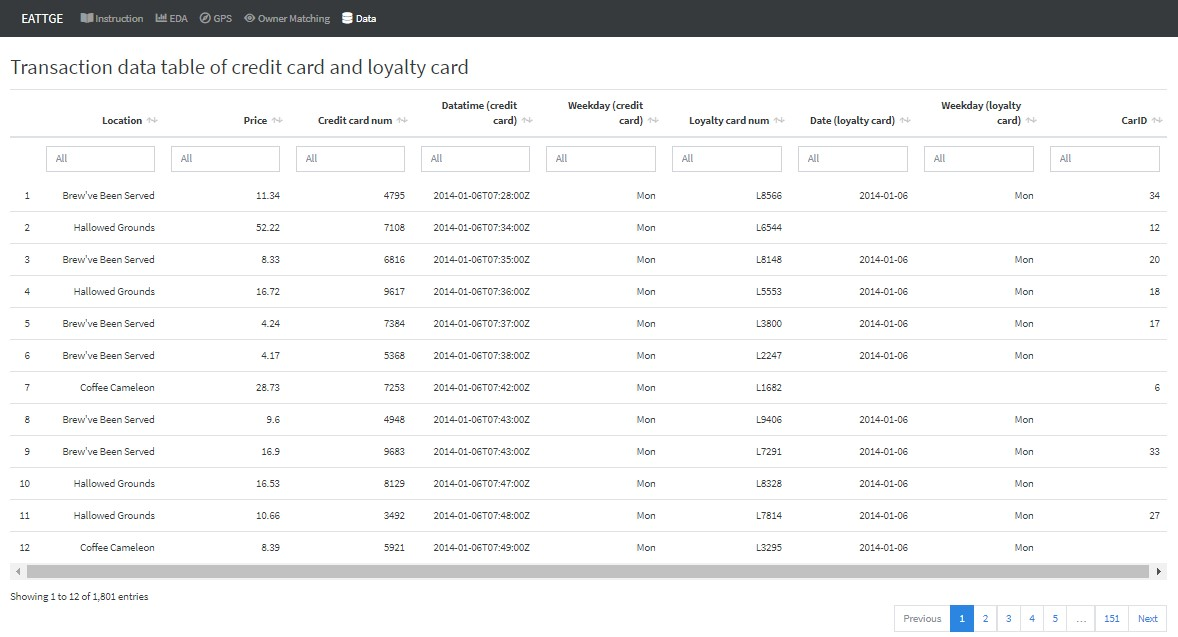
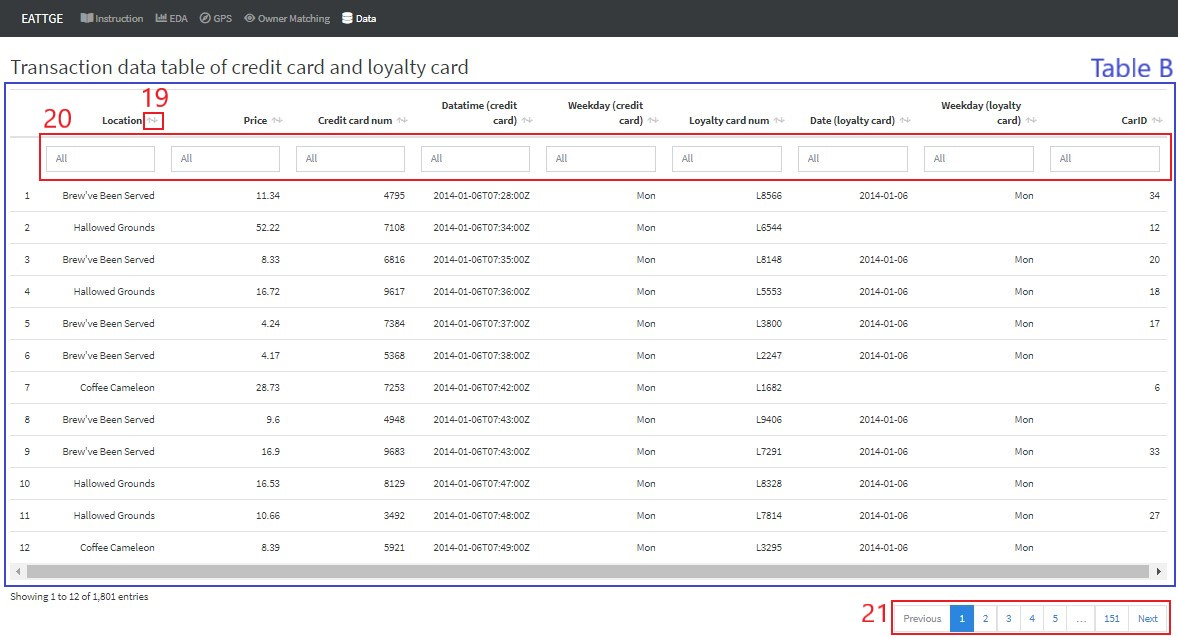
DF ShinyApp + User Guide

Changed region(s): [[0.0, 0.0895, 1.0, 0.2983], [0.0, 0.8948, 1.0, 1.0]]

diff --git a/_posts/2021-08-04-user-guide/user-guide.html b/_posts/2021-08-04-user-guide/user-guide.html
@@ -116,7 +116,7 @@ code span.wa { color: #5e5e5e; font-style: italic; } /* Warning */
   <!--/radix_placeholder_rmarkdown_metadata-->
   
   <script type="text/json" id="radix-resource-manifest">
-  {"type":"character","attributes":{},"value":["img/df_t0instr.jpg","img/df_t1.1eda.jpg","img/df_t2.2hm.jpg","img/df_t3.1om.jpg","img/df_t4.1dt.jpg","img/t1.2-1.jpg","img/t1.2-2.jpg","img/t1.2-3.jpg","img/t1.3_zoom.jpg","img/t2-2.jpg","img/t2.1-1.jpg","img/t2.1-2.jpg","img/t2.1-3.jpg","user-guide_files/anchor-4.2.2/anchor.min.js","user-guide_files/bowser-1.9.3/bowser.min.js","user-guide_files/distill-2.2.21/template.v2.js","user-guide_files/header-attrs-2.9/header-attrs.js","user-guide_files/jquery-1.11.3/jquery.min.js","user-guide_files/popper-2.6.0/popper.min.js","user-guide_files/tippy-6.2.7/tippy-bundle.umd.min.js","user-guide_files/tippy-6.2.7/tippy-light-border.css","user-guide_files/tippy-6.2.7/tippy.css","user-guide_files/tippy-6.2.7/tippy.umd.min.js","user-guide_files/webcomponents-2.0.0/webcomponents.js"]}
+  {"type":"character","attributes":{},"value":["img/df_t0instr.jpg","img/df_t1.1eda.jpg","img/df_t2.2hm.jpg","img/df_t3.1om.jpg","img/df_t4.1dt.jpg","img/t1.2-1.jpg","img/t1.2-2.jpg","img/t1.2-3.jpg","img/t1.3_zoom.jpg","img/t2-2.jpg","img/t2.1-1.jpg","img/t2.1-2.jpg","img/t2.1-3.jpg","img/t3.2-1.jpg","img/t3.2-2.jpg","img/t3.3.jpg","user-guide_files/anchor-4.2.2/anchor.min.js","user-guide_files/bowser-1.9.3/bowser.min.js","user-guide_files/distill-2.2.21/template.v2.js","user-guide_files/header-attrs-2.9/header-attrs.js","user-guide_files/jquery-1.11.3/jquery.min.js","user-guide_files/popper-2.6.0/popper.min.js","user-guide_files/tippy-6.2.7/tippy-bundle.umd.min.js","user-guide_files/tippy-6.2.7/tippy-light-border.css","user-guide_files/tippy-6.2.7/tippy.css","user-guide_files/tippy-6.2.7/tippy.umd.min.js","user-guide_files/webcomponents-2.0.0/webcomponents.js"]}
   </script>
   <!--radix_placeholder_navigation_in_header-->
   <!--/radix_placeholder_navigation_in_header-->
@@ -1502,22 +1502,23 @@ code span.wa { color: #5e5e5e; font-style: italic; } /* Warning */
 <p style="text-align:center;">
 <em>Fig.2 The panel for EDA</em>
 </p>
-<p>[1] Switch the heatmap to show credit card or loyalty card in chart A. <br> [2] Select one or multiple credit/loyalty card number to transactions of specific cards for chart A, B and C. <br> [3] Select all weekday/weekend or particular dates to filter transactions in specific days for chart A, B, C</p>
+<p>[1] Switch the heatmap to show credit card or loyalty card in chart A. <br> [2] Select one or multiple credit/loyalty card number to transactions of specific cards for chart A, B and C. <br> [3] Select all weekday/weekend or particular dates to filter transactions in specific days for chart A, B, C.</p>
 <p style="text-align:center;">
 <img src="img/t1.2-1.jpg" style="width:45.0%" /> <img src="img/t1.2-2.jpg" style="width:45.0%" /> <img src="img/t1.2-3.jpg" style="width:100.0%" /> <br> <em>Fig.3 Hover over on charts to see the tooltip</em>
 </p>
-<p>[4] Hover cursor over plot area to see the location, date/hour and transaction count for heatmap, see the maximum, minimum, mean, median and quartile transaction price for boxplot.</p>
+<p>[4] Hover cursor over plot area to see the tooltip with location, date/hour and transaction count for chart A/chart B, see the tooltip with maximum, minimum, mean, median and quartile transaction price for chart C.</p>
 <p style="text-align:center;">
 <img src="img/t1.3_zoom.jpg" style="width:50.0%" /> <br> <em>Fig.4 Zoom in and out on boxplot</em>
 </p>
-<p>[5] Drag and drop on plot area to zoom in on the boxplot and see details clearly of boxes. Double-click on plot area to restore the default scale of the plotting.</p>
+<p>[5] Drag and drop on plot area to zoom in on chart C and see details clearly of boxes. Double-click on plot area to restore the default scale of the plotting.</p>
 <h1 id="gps">3. GPS</h1>
 <p>This panel is designed to visualize the GPS tracking data. Two sub-tabs constitute this panel.</p>
+<p><strong>In the first sub-tab:</strong></p>
 <img src="img/t2.1-1.jpg" style="width:100.0%" /> <br>
 <p style="text-align:center;">
 <em>Fig.5 The first sub-tab of the panel for GPS</em>
 </p>
-<p>In the first sub-tab: [6] Select particular car ID and date(s) to show GPS movement path for selected car in selected date(s) in chart D and E. <br> [7] The table shows which timeslot each color represents in chart E, and the layer names of the respective timeslots. <br> [8] This buttons are used to zoom in our zoom out the map for displaying more details.</p>
+<p>[6] Select particular car ID and date(s) to show GPS movement path for selected car in selected date(s) in chart D and E. <br> [7] The table shows which timeslot each color represents in chart E, and the layer names of the respective timeslots. <br> [8] This buttons are used to zoom in our zoom out the map for displaying more details.</p>
 <p style="text-align:center;">
 <img src="img/t2.1-2.jpg" style="width:60.0%" /> <br> <em>Fig.6 Legend and tooltip of chart D</em>
 </p>
@@ -1527,13 +1528,40 @@ code span.wa { color: #5e5e5e; font-style: italic; } /* Warning */
 </p>
 <p>[11] Hover the cursor over the layer logo on the upper-left corner to see the layers of Chart E. Check or uncheck particular layers by clicking to see the movement of specific timeslots in selected day.</p>
 <p><em>*Tips: In order to better analysis the movement path, highly recommend to select one car ID to overview all movement lines, then further select one date to observe actions in different timeslots of a day.</em></p>
+<p><strong>In the second tab:</strong></p>
 <img src="img/df_t2.2hm.jpg" style="width:100.0%" /> <br>
 <p style="text-align:center;">
 <em>Fig.8 The second sub-tab of the panel for GPS</em>
 </p>
-<p>In the second tab: [12]</p>
+<p>[12] Check or uncheck weekday or weekend to filter GPS track data in weekday or weekend only for chart F.</p>
+<p style="text-align:center;">
+<img src="img/t2-2.jpg" style="width:50.0%" /> <br> <em>Fig.9 Tooltip in chart F</em>
+</p>
+<p>[13] Hover cursor over plot area of chart F to see the tooltip with car ID, hour and record count of each car in one hour.</p>
+<p><em>*Note: As the Memory limitation of free Shiny App server, after deploying, the Shiny APP can’t afford displaying GPS movement lines for all cars. Thus we filtered GPS tracking data and retained several typical car IDs data to generate the key movement lines for further exploration and analysis.</em></p>
 <h1 id="owner-matching">4. Owner Matching</h1>
+<p>This panel is used to show the relationship between particular car owner and credit/loyalty card holder.</p>
+<img src="img/df_t3.1om.jpg" style="width:100.0%" /> <br>
+<p style="text-align:center;">
+<em>Fig.10 The panel for Owner Matching</em>
+</p>
+<p>[14] Click on the arrow icons next to column title to sort the table A by corresponding column; click the input boxes below the column title, type in searching criteria or select target option to filter the data table. Regular expression can be applied in searching criteria. <br> [15] Click the row in table A to see specific heatmap (chart G) and line chart (chart H) for selected employee(s) on the right side. <br> [16] Switch the heatmap to show credit card or loyalty card in chart H.</p>
+<p><em>*Note: As stated in section 3, only GPS tracking data of the retained car IDs can be used to build Chart G.</em></p>
+<p style="text-align:center;">
+<img src="img/t3.2-1.jpg" style="width:80.0%" /> <img src="img/t3.2-2.jpg" style="width:80.0%" /> <br> <em>Fig.11 Hover over on charts to see the tooltip </em>
+</p>
+<p>[17] Hover cursor over plot area of chart G to see the tooltip with hour, date and record count of selected car in one hour of a day; hover over point on chart H to see the tooltip with the transaction datatime and price in specific location.</p>
+<p style="text-align:center;">
+<img src="img/t3.3.jpg" style="width:80.0%" /> <br> <em>Fig.12 Hover over on charts to see the tooltip </em>
+</p>
+<p>[18] Drag and drop on plot area to zoom in on chart H and see details clearly of points. Double-click on plot area to restore the default scale of the plotting.</p>
 <h1 id="data">5. Data</h1>
+<p>This panel is used to retieve the details of individual transaction record.</p>
+<img src="img/df_t4.1dt.jpg" style="width:100.0%" /> <br>
+<p style="text-align:center;">
+<em>Fig.13 The panel for Owner Matching</em>
+</p>
+<p>[19] Click on the arrow icons next to column title to sort the table B by corresponding column. <br> [20] Click the input boxes below the column title, type in searching criteria or select target option to filter table B. Regular expression can be applied in searching criteria. <br> [21] Click the “Previous” button to shift to the previous page of table B; click “Next” button to shift to the next page; click the page number to jump into the selected page.</p>
 <div class="sourceCode" id="cb1"><pre class="sourceCode r distill-force-highlighting-css"><code class="sourceCode r"></code></pre></div>
 <!--radix_placeholder_article_footer-->
 <!--/radix_placeholder_article_footer-->

diff --git a/_site/posts/2021-08-04-user-guide/index.html b/_site/posts/2021-08-04-user-guide/index.html
@@ -117,7 +117,7 @@ code span.wa { color: #5e5e5e; font-style: italic; } /* Warning */
 <!--/radix_placeholder_rmarkdown_metadata-->
   
   <script type="text/json" id="radix-resource-manifest">
-  {"type":"character","attributes":{},"value":["img/df_t0instr.jpg","img/df_t1.1eda.jpg","img/df_t2.2hm.jpg","img/df_t3.1om.jpg","img/df_t4.1dt.jpg","img/t1.2-1.jpg","img/t1.2-2.jpg","img/t1.2-3.jpg","img/t1.3_zoom.jpg","img/t2-2.jpg","img/t2.1-1.jpg","img/t2.1-2.jpg","img/t2.1-3.jpg","user-guide_files/anchor-4.2.2/anchor.min.js","user-guide_files/bowser-1.9.3/bowser.min.js","user-guide_files/distill-2.2.21/template.v2.js","user-guide_files/header-attrs-2.9/header-attrs.js","user-guide_files/jquery-1.11.3/jquery.min.js","user-guide_files/popper-2.6.0/popper.min.js","user-guide_files/tippy-6.2.7/tippy-bundle.umd.min.js","user-guide_files/tippy-6.2.7/tippy-light-border.css","user-guide_files/tippy-6.2.7/tippy.css","user-guide_files/tippy-6.2.7/tippy.umd.min.js","user-guide_files/webcomponents-2.0.0/webcomponents.js"]}
+  {"type":"character","attributes":{},"value":["img/df_t0instr.jpg","img/df_t1.1eda.jpg","img/df_t2.2hm.jpg","img/df_t3.1om.jpg","img/df_t4.1dt.jpg","img/t1.2-1.jpg","img/t1.2-2.jpg","img/t1.2-3.jpg","img/t1.3_zoom.jpg","img/t2-2.jpg","img/t2.1-1.jpg","img/t2.1-2.jpg","img/t2.1-3.jpg","img/t3.2-1.jpg","img/t3.2-2.jpg","img/t3.3.jpg","user-guide_files/anchor-4.2.2/anchor.min.js","user-guide_files/bowser-1.9.3/bowser.min.js","user-guide_files/distill-2.2.21/template.v2.js","user-guide_files/header-attrs-2.9/header-attrs.js","user-guide_files/jquery-1.11.3/jquery.min.js","user-guide_files/popper-2.6.0/popper.min.js","user-guide_files/tippy-6.2.7/tippy-bundle.umd.min.js","user-guide_files/tippy-6.2.7/tippy-light-border.css","user-guide_files/tippy-6.2.7/tippy.css","user-guide_files/tippy-6.2.7/tippy.umd.min.js","user-guide_files/webcomponents-2.0.0/webcomponents.js"]}
   </script>
   <!--radix_placeholder_navigation_in_header-->
 <meta name="distill:offset" content="../.."/>
@@ -2126,22 +2126,23 @@ document.addEventListener('DOMContentLoaded', function() {
 <p style="text-align:center;">
 <em>Fig.2 The panel for EDA</em>
 </p>
-<p>[1] Switch the heatmap to show credit card or loyalty card in chart A. <br> [2] Select one or multiple credit/loyalty card number to transactions of specific cards for chart A, B and C. <br> [3] Select all weekday/weekend or particular dates to filter transactions in specific days for chart A, B, C</p>
+<p>[1] Switch the heatmap to show credit card or loyalty card in chart A. <br> [2] Select one or multiple credit/loyalty card number to transactions of specific cards for chart A, B and C. <br> [3] Select all weekday/weekend or particular dates to filter transactions in specific days for chart A, B, C.</p>
 <p style="text-align:center;">
 <img src="img/t1.2-1.jpg" style="width:45.0%" /> <img src="img/t1.2-2.jpg" style="width:45.0%" /> <img src="img/t1.2-3.jpg" style="width:100.0%" /> <br> <em>Fig.3 Hover over on charts to see the tooltip</em>
 </p>
-<p>[4] Hover cursor over plot area to see the location, date/hour and transaction count for heatmap, see the maximum, minimum, mean, median and quartile transaction price for boxplot.</p>
+<p>[4] Hover cursor over plot area to see the tooltip with location, date/hour and transaction count for chart A/chart B, see the tooltip with maximum, minimum, mean, median and quartile transaction price for chart C.</p>
 <p style="text-align:center;">
 <img src="img/t1.3_zoom.jpg" style="width:50.0%" /> <br> <em>Fig.4 Zoom in and out on boxplot</em>
 </p>
-<p>[5] Drag and drop on plot area to zoom in on the boxplot and see details clearly of boxes. Double-click on plot area to restore the default scale of the plotting.</p>
+<p>[5] Drag and drop on plot area to zoom in on chart C and see details clearly of boxes. Double-click on plot area to restore the default scale of the plotting.</p>
 <h1 id="gps">3. GPS</h1>
 <p>This panel is designed to visualize the GPS tracking data. Two sub-tabs constitute this panel.</p>
+<p><strong>In the first sub-tab:</strong></p>
 <img src="img/t2.1-1.jpg" style="width:100.0%" /> <br>
 <p style="text-align:center;">
 <em>Fig.5 The first sub-tab of the panel for GPS</em>
 </p>
-<p>In the first sub-tab: [6] Select particular car ID and date(s) to show GPS movement path for selected car in selected date(s) in chart D and E. <br> [7] The table shows which timeslot each color represents in chart E, and the layer names of the respective timeslots. <br> [8] This buttons are used to zoom in our zoom out the map for displaying more details.</p>
+<p>[6] Select particular car ID and date(s) to show GPS movement path for selected car in selected date(s) in chart D and E. <br> [7] The table shows which timeslot each color represents in chart E, and the layer names of the respective timeslots. <br> [8] This buttons are used to zoom in our zoom out the map for displaying more details.</p>
 <p style="text-align:center;">
 <img src="img/t2.1-2.jpg" style="width:60.0%" /> <br> <em>Fig.6 Legend and tooltip of chart D</em>
 </p>
@@ -2151,13 +2152,40 @@ document.addEventListener('DOMContentLoaded', function() {
 </p>
 <p>[11] Hover the cursor over the layer logo on the upper-left corner to see the layers of Chart E. Check or uncheck particular layers by clicking to see the movement of specific timeslots in selected day.</p>
 <p><em>*Tips: In order to better analysis the movement path, highly recommend to select one car ID to overview all movement lines, then further select one date to observe actions in different timeslots of a day.</em></p>
+<p><strong>In the second tab:</strong></p>
 <img src="img/df_t2.2hm.jpg" style="width:100.0%" /> <br>
 <p style="text-align:center;">
 <em>Fig.8 The second sub-tab of the panel for GPS</em>
 </p>
-<p>In the second tab: [12]</p>
+<p>[12] Check or uncheck weekday or weekend to filter GPS track data in weekday or weekend only for chart F.</p>
+<p style="text-align:center;">
+<img src="img/t2-2.jpg" style="width:50.0%" /> <br> <em>Fig.9 Tooltip in chart F</em>
+</p>
+<p>[13] Hover cursor over plot area of chart F to see the tooltip with car ID, hour and record count of each car in one hour.</p>
+<p><em>*Note: As the Memory limitation of free Shiny App server, after deploying, the Shiny APP can’t afford displaying GPS movement lines for all cars. Thus we filtered GPS tracking data and retained several typical car IDs data to generate the key movement lines for further exploration and analysis.</em></p>
 <h1 id="owner-matching">4. Owner Matching</h1>
+<p>This panel is used to show the relationship between particular car owner and credit/loyalty card holder.</p>
+<img src="img/df_t3.1om.jpg" style="width:100.0%" /> <br>
+<p style="text-align:center;">
+<em>Fig.10 The panel for Owner Matching</em>
+</p>
+<p>[14] Click on the arrow icons next to column title to sort the table A by corresponding column; click the input boxes below the column title, type in searching criteria or select target option to filter the data table. Regular expression can be applied in searching criteria. <br> [15] Click the row in table A to see specific heatmap (chart G) and line chart (chart H) for selected employee(s) on the right side. <br> [16] Switch the heatmap to show credit card or loyalty card in chart H.</p>
+<p><em>*Note: As stated in section 3, only GPS tracking data of the retained car IDs can be used to build Chart G.</em></p>
+<p style="text-align:center;">
+<img src="img/t3.2-1.jpg" style="width:80.0%" /> <img src="img/t3.2-2.jpg" style="width:80.0%" /> <br> <em>Fig.11 Hover over on charts to see the tooltip </em>
+</p>
+<p>[17] Hover cursor over plot area of chart G to see the tooltip with hour, date and record count of selected car in one hour of a day; hover over point on chart H to see the tooltip with the transaction datatime and price in specific location.</p>
+<p style="text-align:center;">
+<img src="img/t3.3.jpg" style="width:80.0%" /> <br> <em>Fig.12 Hover over on charts to see the tooltip </em>
+</p>
+<p>[18] Drag and drop on plot area to zoom in on chart H and see details clearly of points. Double-click on plot area to restore the default scale of the plotting.</p>
 <h1 id="data">5. Data</h1>
+<p>This panel is used to retieve the details of individual transaction record.</p>
+<img src="img/df_t4.1dt.jpg" style="width:100.0%" /> <br>
+<p style="text-align:center;">
+<em>Fig.13 The panel for Owner Matching</em>
+</p>
+<p>[19] Click on the arrow icons next to column title to sort the table B by corresponding column. <br> [20] Click the input boxes below the column title, type in searching criteria or select target option to filter table B. Regular expression can be applied in searching criteria. <br> [21] Click the “Previous” button to shift to the previous page of table B; click “Next” button to shift to the next page; click the page number to jump into the selected page.</p>
 <div class="sourceCode" id="cb1"><pre class="sourceCode r distill-force-highlighting-css"><code class="sourceCode r"></code></pre></div>
 <!--radix_placeholder_article_footer-->
 <!--/radix_placeholder_article_footer-->
